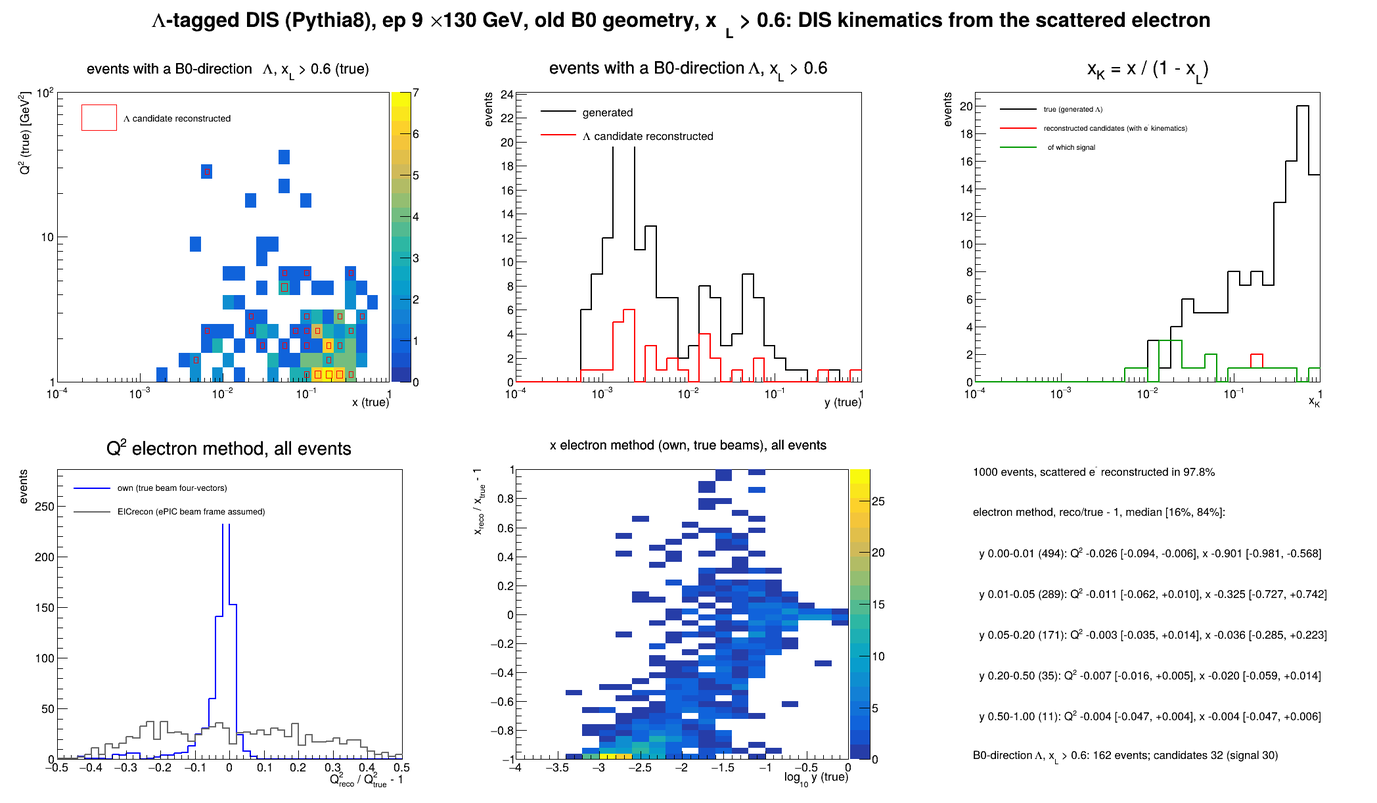
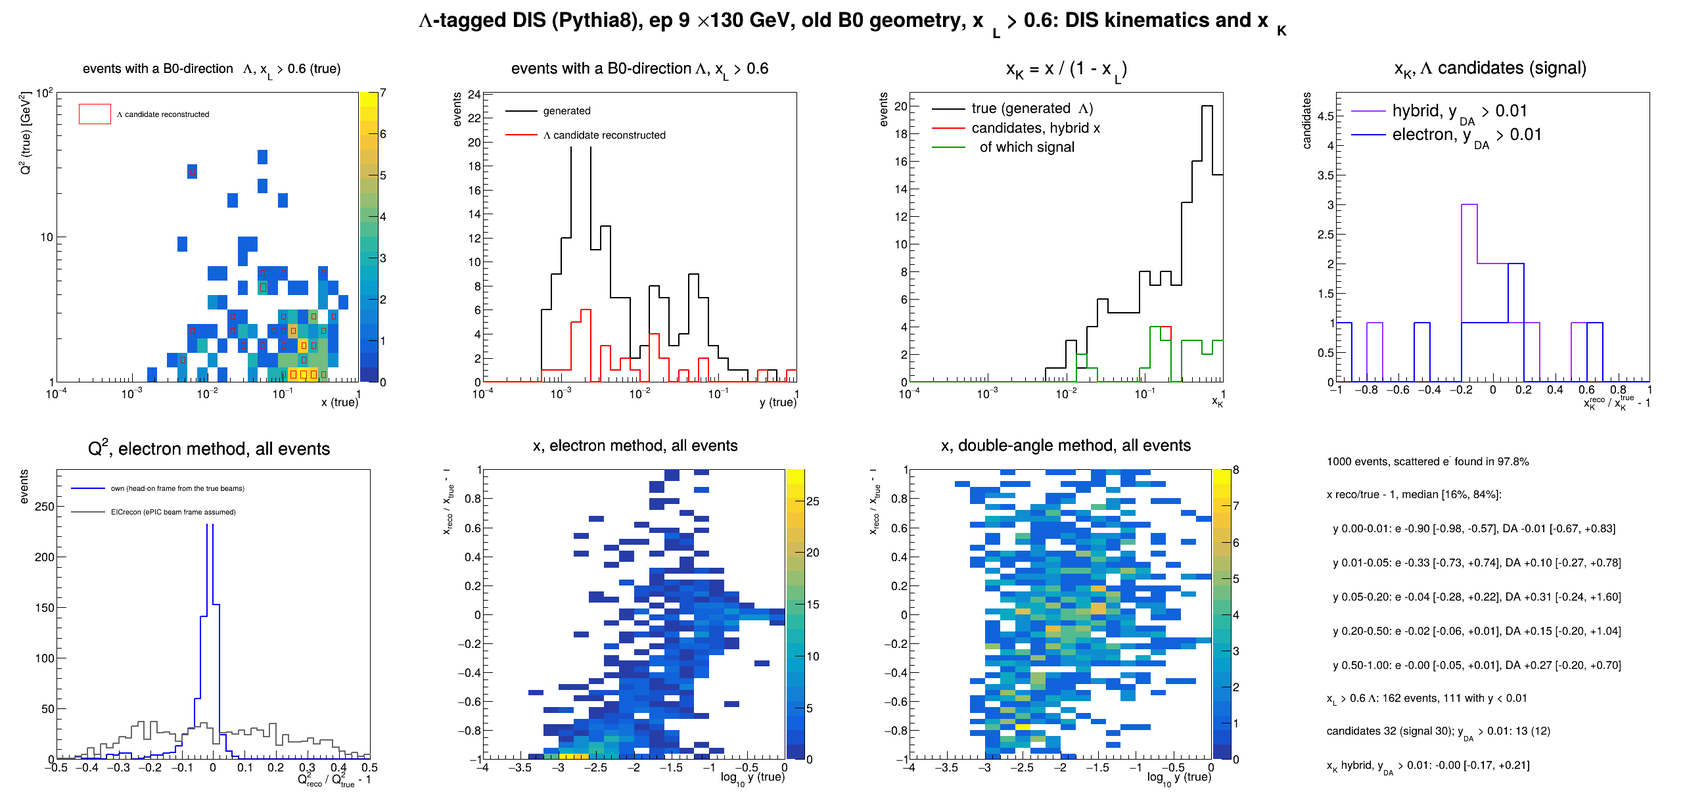
Kaon SF step 3: hadronic-final-state methods (JB, DA, Sigma, eSigma, hybrid) in the head-on frame; x_K with y_DA cut

diff --git a/macros/kaon/kaon_kinematics.C b/macros/kaon/kaon_kinematics.C
@@ -1,19 +1,29 @@
 // kaon_kinematics.C
 //
-// Kaon structure function, step 2: DIS kinematics from the scattered electron and x_K = x / (1 - x_L)
-// for Lambda-tagged DIS events (Pythia8, scripts/gen/), EICrecon#3116 output.
+// Kaon structure function: DIS kinematics (x, Q2, y) and x_K = x / (1 - x_L) for Lambda-tagged DIS
+// events (Pythia8, scripts/gen/), EICrecon#3116 output.
 //
-// DIS kinematics (electron method), Lorentz invariants from the beam four-vectors of the event
-// (MCParticles with generatorStatus 4) and the scattered electron:
-//   q = e_beam - e',  Q2 = -q^2,  y = P.q / P.e_beam,  x = Q2 / (2 P.q)
-// true:  e' = MCScatteredElectrons (same as InclusiveKinematicsTruth, checked)
-// reco:  e' = the reconstructed charged particle that EICrecon uses for InclusiveKinematicsElectron
-//        (ScatteredElectronsTruth: the track truth-matched to the scattered electron; electron mass).
-// Why not InclusiveKinematicsElectron itself: EICrecon rounds the beams to the ePIC frame (electron
-// beam along -z, proton at -25 mrad). Our samples are boosted by ddsim --crossingAngleBoost -0.025,
-// which also tilts the electron beam by 25 mrad (beam e- px/|pz| = -0.025; campaign afterburner
-// files: ~1e-4), so EICrecon's reconstructed kinematics are wrong for them. The invariants
-// computed here do not depend on the frame. EICrecon's numbers are printed for comparison.
+// Frame. Our samples are Pythia head-on events boosted by ddsim --crossingAngleBoost -0.025, a pure
+// Lorentz boost along x that tilts BOTH beams (beam e- px/|pz| = -0.025; in the ePIC campaign files,
+// made with the afterburner, the electron beam is along -z). EICrecon's InclusiveKinematics* and
+// HadronicFinalState put the beams into the ePIC frame and are therefore wrong for our samples.
+// Here every event is boosted back by beta_x = -(px / E) of the summed true beams (MCParticles,
+// generatorStatus 4), which restores the head-on frame exactly (beam |px| < 1e-10 GeV afterwards).
+//
+// Methods (head-on frame, proton along +z, electron along -z, theta = scattered-electron angle):
+//   electron  Q2 = 2 Ee E' (1 + cos theta), y = 1 - E' (1 - cos theta) / (2 Ee)
+//   JB        y = Sigma_h / (2 Ee), Q2 = pT_h^2 / (1 - y)
+//   DA        hadron angle gamma from (pT_h, Sigma_h); y, Q2 from gamma and theta only
+//   Sigma     y = Sigma_h / (Sigma_h + E' (1 - cos theta)), Q2 = E'^2 sin^2 theta / (1 - y)
+//   eSigma    Q2 from the electron, x from Sigma
+//   hybrid    DA if its y < yHybrid (default 0.05), else electron
+//   x = Q2 / (s y) in all cases. Sigma_h = sum (E - pz), pT_h = |sum pT| of the hadronic final state.
+// Inputs: scattered electron = the reconstructed charged particle EICrecon uses for
+// InclusiveKinematicsElectron (ScatteredElectronsTruth: truth-matched track; electron mass); hadronic
+// final state = all ReconstructedParticles (tracks + ECal clusters, no HCal) except that electron.
+// True kinematics: beams and MCScatteredElectrons (identical to InclusiveKinematicsTruth, checked).
+// Closure: the same formulas on the generated final state reproduce the true x (up to -6% at
+// y < 0.01: the proton-mass term in sum(E - pz) is neglected).
 //
 // Lambda: generated = B0-direction Lambda (5.5-20 mrad from the proton beam) with x_L > xLMin;
 // reconstructed (no truth) = forward (+,-) pair of hit-seeded tracks (beam-frame theta < 30 mrad),
@@ -21,11 +31,7 @@
 // pair closest to the Lambda mass. Signal = both tracks from the same Lambda -> p pi- (truth label).
 // x_L = p_z(beam frame) / E_p, E_p from the file name (9x130, 10x100, 5x41, else 275 GeV).
 //
-// Candidates are counted with or without electron kinematics; "no e- kinematics" = no reconstructed
-// scattered electron, or the electron method gives y <= 0 (frequent at y < 0.01: there y_reco =
-// 1 - E'(1 - cos theta)/(2 E_e) is a small difference of large numbers). x_K needs them.
-//
-// Output: printout and <outbase>.png (3 x 2).
+// Output: printout and <outbase>.png (4 x 2).
 // Usage (from the repository top):
 //   root -l -b -q 'macros/kaon/kaon_kinematics.C+("/eos/user/g/gninio/eic/lambda_dis_9x130/dis_lambda_9x130_old_s40?.eicreconpr3116.edm4eic.root","results/11_kaon_sf/kin_9x130_old")'
 #include "../common/LambdaB0.h"
@@ -42,23 +48,31 @@
 namespace {
 const double kMassElectron = 0.000511;   // GeV
 const unsigned int kColRecoCharged = 0x538857ff;   // podio collection ID of ReconstructedChargedParticles
+enum { kE, kJB, kDA, kSig, kESig, kHyb, kNM };
+const char* kMName[kNM] = {"electron", "JB", "DA", "Sigma", "eSigma", "hybrid"};
 
 struct Kin { double Q2 = -1, x = -1, y = -1; bool ok = false; };
-// Lorentz-invariant DIS kinematics from the beams and the scattered electron (any frame)
-Kin DisKin(const TLorentzVector& eb, const TLorentzVector& pb, const TLorentzVector& es) {
-  TLorentzVector q = eb - es;
-  Kin k; k.Q2 = -q.M2();
-  double pq = pb.Dot(q);
-  if (pq <= 0 || k.Q2 <= 0) return k;
-  k.x = k.Q2 / (2 * pq); k.y = pq / pb.Dot(eb); k.ok = true;
-  return k;
+// all methods; e = scattered electron, S = Sigma_h, pt = pT_h (head-on frame); Ee, s of the beams
+void Methods(const TLorentzVector& e, double S, double pt, double Ee, double s, double yHybrid, Kin k[kNM]) {
+  for (int m = 0; m < kNM; ++m) k[m] = Kin();
+  double Ep = e.E(), c = std::cos(e.Theta()), sn = std::sin(e.Theta());
+  auto fin = [&](Kin& q) { q.ok = q.ok && q.y > 0 && q.y < 1 && q.Q2 > 0; if (q.ok) q.x = q.Q2 / (s * q.y); };
+  k[kE].Q2 = 2 * Ee * Ep * (1 + c); k[kE].y = 1 - Ep * (1 - c) / (2 * Ee); k[kE].ok = true; fin(k[kE]);
+  if (S > 0 && pt > 0) {
+    k[kJB].y = S / (2 * Ee); k[kJB].Q2 = pt * pt / (1 - k[kJB].y); k[kJB].ok = k[kJB].y < 1; fin(k[kJB]);
+    double tg = std::tan(0.5 * std::acos((pt * pt - S * S) / (pt * pt + S * S))), te = std::tan(0.5 * e.Theta());
+    k[kDA].y = tg / (tg + te); k[kDA].Q2 = 4 * Ee * Ee / te / (tg + te); k[kDA].ok = true; fin(k[kDA]);
+    k[kSig].y = S / (S + Ep * (1 - c)); k[kSig].Q2 = Ep * Ep * sn * sn / (1 - k[kSig].y); k[kSig].ok = true; fin(k[kSig]);
+    if (k[kSig].ok && k[kE].Q2 > 0) { k[kESig].Q2 = k[kE].Q2; k[kESig].x = k[kSig].x; k[kESig].y = k[kE].Q2 / (s * k[kSig].x); k[kESig].ok = true; }
+  }
+  k[kHyb] = (k[kDA].ok && k[kDA].y < yHybrid) ? k[kDA] : k[kE];
 }
 // "median [16%, 84%]" of a sample
 TString Spread(std::vector<double> v) {
   if (v.size() < 3) return TString::Format("n=%zu", v.size());
   std::sort(v.begin(), v.end());
   auto q = [&](double f) { return v[(size_t)(f * (v.size() - 1))]; };
-  return TString::Format("%+.3f [%+.3f, %+.3f]", q(0.5), q(0.16), q(0.84));
+  return TString::Format("%+.2f [%+.2f, %+.2f]", q(0.5), q(0.16), q(0.84));
 }
 std::vector<double> LogBins(int n, double lo, double hi) {
   std::vector<double> b(n + 1);
@@ -68,7 +82,8 @@ std::vector<double> LogBins(int n, double lo, double hi) {
 }  // namespace
 
 void kaon_kinematics(const char* files = "/eos/user/g/gninio/eic/lambda_dis_9x130/dis_lambda_9x130_old_s40?.eicreconpr3116.edm4eic.root",
-                     const char* outbase = "kin_9x130_old", double xLMin = 0.6, double minRatio = 2.5, double mWin = 0.010)
+                     const char* outbase = "kin_9x130_old", double xLMin = 0.6, double minRatio = 2.5, double mWin = 0.010,
+                     double yHybrid = 0.05, double yMin = 0.01)
 {
   using namespace lb0;
   const double thLo = 5.5, thHi = 20, thFwd = 30;   // mrad
@@ -82,31 +97,34 @@ void kaon_kinematics(const char* files = "/eos/user/g/gninio/eic/lambda_dis_9x13
   TTreeReader r(ch);
   MCEvent ev(r);
   RecoEvent reco(r, Seeding("hit"));   // ReconstructedChargedParticles: also holds the scattered electron
+  TTreeReaderArray<double> mcMass(r, "MCParticles.mass");
   TTreeReaderArray<int> mcScat(r, "MCScatteredElectrons_objIdx.index");
   TTreeReaderArray<int> scatIdx(r, "_InclusiveKinematicsElectron_scat.index");
   TTreeReaderArray<unsigned int> scatCol(r, "_InclusiveKinematicsElectron_scat.collectionID");
-  TTreeReaderArray<float> tQ2(r, "InclusiveKinematicsTruth.Q2"), tx(r, "InclusiveKinematicsTruth.x"), ty(r, "InclusiveKinematicsTruth.y");
-  TTreeReaderArray<float> eQ2(r, "InclusiveKinematicsElectron.Q2"), ex(r, "InclusiveKinematicsElectron.x"), ey(r, "InclusiveKinematicsElectron.y");
+  TTreeReaderArray<float> rpx(r, "ReconstructedParticles.momentum.x"), rpy(r, "ReconstructedParticles.momentum.y"),
+                          rpz(r, "ReconstructedParticles.momentum.z"), rpE(r, "ReconstructedParticles.energy");
+  TTreeReaderArray<float> tQ2(r, "InclusiveKinematicsTruth.Q2"), eQ2(r, "InclusiveKinematicsElectron.Q2");
 
-  // y bins for the resolution table
   const int ny = 5; const double yb[ny + 1] = {0, 0.01, 0.05, 0.2, 0.5, 1};
-  std::vector<double> rQ[ny], rX[ny], rY[ny], eQ[ny], eX[ny];   // own electron method / EICrecon electron method
-  long nEv = 0, nScat = 0, nScatOther = 0, nTruthMismatch = 0, nEvY[ny] = {0}, nBadY[ny] = {0};   // nBad: reco y <= 0 (P.q <= 0) or Q2 <= 0
+  auto YBin = [&](double y) { for (int k = 0; k < ny; ++k) if (y >= yb[k] && y < yb[k + 1]) return k; return -1; };
+  std::vector<double> rX[kNM][ny], rQ[kNM][ny], rXL[kNM][ny], gX[kNM][ny], eicQ[ny];   // all events / high-x_L events / closure
+  long nEv = 0, nScat = 0, nScatOther = 0, nTruthMismatch = 0, nEvY[ny] = {0}, nFail[kNM][ny] = {{0}};
+  double maxBeamPx = 0;
   // Lambda side
-  long nSel = 0, nSelY[ny] = {0}, nCand = 0, nCandSig = 0, nCandY[ny] = {0}, nCandSigY[ny] = {0}, nCandNoKinY[ny] = {0};
-  std::vector<double> dXK[ny], dXL;
+  long nSel = 0, nSelY[ny] = {0}, nCand = 0, nCandSig = 0, nCandY[ny] = {0}, nCandSigY[ny] = {0}, nCandCut = 0, nCandCutSig = 0;
+  std::vector<double> dXK[kNM], dXKcut[kNM], dXL;
 
   auto bx = LogBins(30, 1e-4, 1), bq = LogBins(20, 1, 100), byy = LogBins(32, 1e-4, 1);
   TH2D hQx("hQx", "events with a B0-direction #Lambda, x_{L} > 0.6 (true);x (true);Q^{2} (true) [GeV^{2}]", 30, bx.data(), 20, bq.data());
   TH2D hQxR("hQxR", "", 30, bx.data(), 20, bq.data());
   TH1D hY("hY", "events with a B0-direction #Lambda, x_{L} > 0.6;y (true);events", 32, byy.data());
   TH1D hYR("hYR", "", 32, byy.data());
-  TH1D hdQ("hdQ", "Q^{2} electron method, all events;Q^{2}_{reco} / Q^{2}_{true} - 1;events", 50, -0.5, 0.5);
-  TH1D hdQe("hdQe", "", 50, -0.5, 0.5);
-  auto blogy = std::vector<double>(); for (int i = 0; i <= 20; ++i) blogy.push_back(-4 + 0.2 * i);
-  TH2D hdXy("hdXy", "x electron method (own, true beams), all events;log_{10} y (true);x_{reco} / x_{true} - 1", 20, -4, 0, 50, -1, 1);
+  TH1D hdQ("hdQ", "Q^{2}, electron method, all events;Q^{2}_{reco} / Q^{2}_{true} - 1;events", 50, -0.5, 0.5), hdQe("hdQe", "", 50, -0.5, 0.5);
+  TH2D hdXyE("hdXyE", "x, electron method, all events;log_{10} y (true);x_{reco} / x_{true} - 1", 20, -4, 0, 50, -1, 1);
+  TH2D hdXyD("hdXyD", "x, double-angle method, all events;log_{10} y (true);x_{reco} / x_{true} - 1", 20, -4, 0, 50, -1, 1);
   TH1D hXK("hXK", "x_{K} = x / (1 - x_{L});x_{K};events", 30, bx.data());
   TH1D hXKR("hXKR", "", 30, bx.data()), hXKRS("hXKRS", "", 30, bx.data());
+  TH1D hdXKh("hdXKh", TString::Format("x_{K}, #Lambda candidates (signal);x_{K}^{reco} / x_{K}^{true} - 1;candidates"), 20, -1, 1), hdXKe("hdXKe", "", 20, -1, 1);
 
   while (r.Next()) {
     ++nEv;
@@ -116,32 +134,33 @@ void kaon_kinematics(const char* files = "/eos/user/g/gninio/eic/lambda_dis_9x13
       if (ev.pdg[i] == 11) eb.SetXYZM(ev.px[i], ev.py[i], ev.pz[i], kMassElectron);
       if (ev.pdg[i] == 2212) pb.SetXYZM(ev.px[i], ev.py[i], ev.pz[i], kMassProton);
     }
+    TLorentzVector tot = eb + pb;
+    const TVector3 toHeadOn(-tot.Px() / tot.E(), 0, 0);
+    TLorentzVector ebh = eb, pbh = pb; ebh.Boost(toHeadOn); pbh.Boost(toHeadOn);
+    maxBeamPx = std::max({maxBeamPx, std::fabs(ebh.Px()), std::fabs(pbh.Px())});
+    const double Ee = ebh.E(), s = tot.M2();
     if (!mcScat.GetSize() || mcScat[0] < 0) continue;
     int im = mcScat[0];
     TLorentzVector et; et.SetXYZM(ev.px[im], ev.py[im], ev.pz[im], kMassElectron);
-    Kin kt = DisKin(eb, pb, et);
+    TLorentzVector q = eb - et;
+    Kin kt; kt.Q2 = -q.M2(); kt.y = pb.Dot(q) / pb.Dot(eb); kt.x = kt.Q2 / (2 * pb.Dot(q)); kt.ok = kt.Q2 > 0 && kt.y > 0;
     if (!kt.ok) continue;
     if (tQ2.GetSize() && std::fabs(tQ2[0] / kt.Q2 - 1) > 1e-3) ++nTruthMismatch;
-    int iy = -1; for (int k = 0; k < ny; ++k) if (kt.y >= yb[k] && kt.y < yb[k + 1]) iy = k;
+    int iy = YBin(kt.y);
     if (iy < 0) continue;
     ++nEvY[iy];
+    TLorentzVector eth = et; eth.Boost(toHeadOn);
 
-    // reconstructed scattered electron
-    Kin kr;
-    bool haveE = scatIdx.GetSize() && scatIdx[0] >= 0 && scatIdx[0] < reco.N();
-    if (haveE && scatCol[0] != kColRecoCharged) { ++nScatOther; haveE = false; }
-    if (haveE) {
-      ++nScat;
-      TLorentzVector er; er.SetVectM(reco.P(scatIdx[0]), kMassElectron);
-      kr = DisKin(eb, pb, er);
-      if (!kr.ok) ++nBadY[iy];
-      if (kr.ok) {
-        rQ[iy].push_back(kr.Q2 / kt.Q2 - 1); rX[iy].push_back(kr.x / kt.x - 1); rY[iy].push_back(kr.y / kt.y - 1);
-        hdQ.Fill(kr.Q2 / kt.Q2 - 1); hdXy.Fill(std::log10(kt.y), kr.x / kt.x - 1);
+    // closure: the methods on the generated final state
+    {
+      double S = 0, sx = 0, sy = 0;
+      for (size_t i = 0; i < ev.pdg.GetSize(); ++i) {
+        if (ev.status[i] != 1 || (int)i == im) continue;
+        TLorentzVector v; v.SetXYZM(ev.px[i], ev.py[i], ev.pz[i], mcMass[i]); v.Boost(toHeadOn);
+        S += v.E() - v.Pz(); sx += v.Px(); sy += v.Py();
       }
-      if (eQ2.GetSize()) {
-        eQ[iy].push_back(eQ2[0] / kt.Q2 - 1); eX[iy].push_back(ex[0] / kt.x - 1); hdQe.Fill(eQ2[0] / kt.Q2 - 1);
-      }
+      Kin kg[kNM]; Methods(eth, S, std::hypot(sx, sy), Ee, s, yHybrid, kg);
+      for (int m = 0; m < kNM; ++m) if (kg[m].ok) gX[m][iy].push_back(kg[m].x / kt.x - 1);
     }
 
     // generated B0-direction Lambda with x_L > xLMin
@@ -152,9 +171,32 @@ void kaon_kinematics(const char* files = "/eos/user/g/gninio/eic/lambda_dis_9x13
       if (th < thLo || th > thHi || XL(pl) < xLMin) continue;
       xLt = std::max(xLt, XL(pl));
     }
-    if (xLt > 0) {
-      ++nSel; ++nSelY[iy];
-      hQx.Fill(kt.x, kt.Q2); hY.Fill(kt.y); hXK.Fill(kt.x / (1 - xLt));
+    if (xLt > 0) { ++nSel; ++nSelY[iy]; hQx.Fill(kt.x, kt.Q2); hY.Fill(kt.y); hXK.Fill(kt.x / (1 - xLt)); }
+
+    // reconstructed kinematics
+    Kin kr[kNM];
+    bool haveE = scatIdx.GetSize() && scatIdx[0] >= 0 && scatIdx[0] < reco.N();
+    if (haveE && scatCol[0] != kColRecoCharged) { ++nScatOther; haveE = false; }
+    if (haveE) {
+      ++nScat;
+      TVector3 e3 = reco.P(scatIdx[0]);
+      double S = 0, sx = 0, sy = 0;
+      for (size_t k = 0; k < rpx.GetSize(); ++k) {
+        TVector3 p3(rpx[k], rpy[k], rpz[k]);
+        if ((p3 - e3).Mag() < 1e-4 * e3.Mag()) continue;   // the scattered electron (same track)
+        TLorentzVector v(p3, rpE[k]); v.Boost(toHeadOn);
+        S += v.E() - v.Pz(); sx += v.Px(); sy += v.Py();
+      }
+      TLorentzVector er; er.SetVectM(e3, kMassElectron); er.Boost(toHeadOn);
+      Methods(er, S, std::hypot(sx, sy), Ee, s, yHybrid, kr);
+      for (int m = 0; m < kNM; ++m) {
+        if (!kr[m].ok) { ++nFail[m][iy]; continue; }
+        rX[m][iy].push_back(kr[m].x / kt.x - 1); rQ[m][iy].push_back(kr[m].Q2 / kt.Q2 - 1);
+        if (xLt > 0) rXL[m][iy].push_back(kr[m].x / kt.x - 1);
+      }
+      if (kr[kE].ok) { hdQ.Fill(kr[kE].Q2 / kt.Q2 - 1); hdXyE.Fill(std::log10(kt.y), kr[kE].x / kt.x - 1); }
+      if (kr[kDA].ok) hdXyD.Fill(std::log10(kt.y), kr[kDA].x / kt.x - 1);
+      if (eQ2.GetSize()) { eicQ[iy].push_back(eQ2[0] / kt.Q2 - 1); hdQe.Fill(eQ2[0] / kt.Q2 - 1); }
     }
 
     // reconstructed Lambda candidate (no truth): best forward (+,-) pair in the mass window
@@ -174,48 +216,75 @@ void kaon_kinematics(const char* files = "/eos/user/g/gninio/eic/lambda_dis_9x13
       bool sig = lp >= 0 && lp == lpi;
       ++nCand; nCandSig += sig; ++nCandY[iy]; nCandSigY[iy] += sig;
       hQxR.Fill(kt.x, kt.Q2); hYR.Fill(kt.y);
-      if (!kr.ok) ++nCandNoKinY[iy];   // no reconstructed electron, or electron method gives y <= 0
-    }
-    if (ba >= 0 && kr.ok) {
-      int lp = ev.LambdaOf(mc[ba], 2212), lpi = ev.LambdaOf(mc[bb], -211);
-      bool sig = lp >= 0 && lp == lpi;
-      double xLr = XL(reco.P(ba) + reco.P(bb)), xKr = kr.x / (1 - xLr);
-      hXKR.Fill(xKr);
+      double xLr = XL(reco.P(ba) + reco.P(bb));
+      bool pass = kr[kDA].ok && kr[kDA].y > yMin;   // y cut on the reconstructed (DA) y
+      if (pass) { ++nCandCut; nCandCutSig += sig; }
+      if (kr[kHyb].ok) { hXKR.Fill(kr[kHyb].x / (1 - xLr)); if (sig) hXKRS.Fill(kr[kHyb].x / (1 - xLr)); }
       if (sig) {
-        hXKRS.Fill(xKr);
         double xKt = kt.x / (1 - XL(ev.P(lp)));
-        dXK[iy].push_back(xKr / xKt - 1); dXL.push_back(xLr - XL(ev.P(lp)));
+        dXL.push_back(xLr - XL(ev.P(lp)));
+        for (int m = 0; m < kNM; ++m) if (kr[m].ok) {
+          double d = kr[m].x / (1 - xLr) / xKt - 1;
+          dXK[m].push_back(d); if (pass) dXKcut[m].push_back(d);
+        }
+        if (pass && kr[kHyb].ok) hdXKh.Fill(kr[kHyb].x / (1 - xLr) / xKt - 1);
+        if (pass && kr[kE].ok) hdXKe.Fill(kr[kE].x / (1 - xLr) / xKt - 1);
       }
     }
   }
 
   printf("%s\n", files);
-  printf("events %ld (E_p = %.0f GeV); reconstructed scattered electron (ScatteredElectronsTruth track) in %ld (%.1f%%)%s\n",
-         nEv, Ep, nScat, Pct(nScat, nEv), nScatOther ? TString::Format(", %ld linked to another collection (skipped)", nScatOther).Data() : "");
-  printf("own true kinematics vs InclusiveKinematicsTruth: %ld events differ by > 0.1%% in Q2\n", nTruthMismatch);
-  printf("electron method, reco/true - 1: median [16%%, 84%%]; own = true beams, EICrecon = InclusiveKinematicsElectron\n");
-  printf("  y (true)     events  y_reco<=0 | own Q2                     own x                      own y                     | EICrecon Q2                EICrecon x\n");
-  for (int k = 0; k < ny; ++k)
-    printf("  %.2f-%.2f   %6ld  %9ld | %-26s %-26s %-26s| %-26s %-26s\n", yb[k], yb[k + 1], nEvY[k], nBadY[k],
-           Spread(rQ[k]).Data(), Spread(rX[k]).Data(), Spread(rY[k]).Data(), Spread(eQ[k]).Data(), Spread(eX[k]).Data());
-  printf("Lambda side (x_L > %.2f): events with a generated B0-direction Lambda %ld; with a reconstructed candidate (hit seeding, +-%.0f MeV) %ld, signal %ld (%.0f%%)\n",
-         xLMin, nSel, mWin * 1000, nCand, nCandSig, Pct(nCandSig, nCand));
-  printf("  y (true)     generated  candidates (signal)  no e- kinematics | x_K reco/true - 1 (signal)\n");
-  for (int k = 0; k < ny; ++k)
-    printf("  %.2f-%.2f   %9ld  %10ld (%3ld)    %10ld       | %s\n", yb[k], yb[k + 1], nSelY[k], nCandY[k], nCandSigY[k], nCandNoKinY[k], Spread(dXK[k]).Data());
+  printf("events %ld (E_p = %.0f GeV); head-on frame: beam |px| after the inverse boost < %.1e GeV\n", nEv, Ep, maxBeamPx);
+  printf("reconstructed scattered electron (ScatteredElectronsTruth track) in %ld (%.1f%%)%s; own truth vs InclusiveKinematicsTruth: %ld events differ\n",
+         nScat, Pct(nScat, nEv), nScatOther ? TString::Format(", %ld linked elsewhere (skipped)", nScatOther).Data() : "", nTruthMismatch);
+  printf("closure (methods on the generated final state), x/x_true - 1, median:\n");
+  for (int k = 0; k < ny; ++k) {
+    printf("  y %.2f-%.2f:", yb[k], yb[k + 1]);
+    for (int m = 0; m < kNM; ++m) { auto v = gX[m][k]; std::sort(v.begin(), v.end()); printf("  %s %+.3f", kMName[m], v.empty() ? 0. : v[v.size() / 2]); }
+    printf("\n");
+  }
+  printf("x reco/true - 1, median [16%%, 84%%], all events (failed = no valid result):\n");
+  printf("  %-10s %6s", "y (true)", "events");
+  for (int m = 0; m < kNM; ++m) printf(" | %-23s", kMName[m]);
+  printf("\n");
+  for (int k = 0; k < ny; ++k) {
+    printf("  %.2f-%.2f  %6ld", yb[k], yb[k + 1], nEvY[k]);
+    for (int m = 0; m < kNM; ++m) printf(" | %-23s", Spread(rX[m][k]).Data());
+    printf("\n");
+  }
+  printf("  failed:          ");
+  for (int m = 0; m < kNM; ++m) { long f = 0; for (int k = 0; k < ny; ++k) f += nFail[m][k]; printf(" | %-23ld", f); }
+  printf("\nQ2 reco/true - 1, median [16%%, 84%%], all events (EICrecon = its electron method, ePIC frame assumed):\n");
+  printf("  %-10s", "y (true)"); for (int m : {kE, kDA, kSig, kESig}) printf(" | %-23s", kMName[m]); printf(" | %-23s\n", "EICrecon");
+  for (int k = 0; k < ny; ++k) {
+    printf("  %.2f-%.2f", yb[k], yb[k + 1]);
+    for (int m : {kE, kDA, kSig, kESig}) printf(" | %-23s", Spread(rQ[m][k]).Data());
+    printf(" | %-23s\n", Spread(eicQ[k]).Data());
+  }
+  printf("x reco/true - 1 for the events with a B0-direction Lambda at x_L > %.2f:\n", xLMin);
+  for (int k = 0; k < ny; ++k) {
+    printf("  %.2f-%.2f  %6ld", yb[k], yb[k + 1], nSelY[k]);
+    for (int m = 0; m < kNM; ++m) printf(" | %-23s", Spread(rXL[m][k]).Data());
+    printf("\n");
+  }
+  printf("Lambda candidates (hit seeding, +-%.0f MeV, x_L > %.2f): %ld, signal %ld; with y_DA > %.2f: %ld, signal %ld\n",
+         mWin * 1000, xLMin, nCand, nCandSig, yMin, nCandCut, nCandCutSig);
+  printf("  per true y bin:"); for (int k = 0; k < ny; ++k) printf("  %.2f-%.2f %ld (%ld)", yb[k], yb[k + 1], nCandY[k], nCandSigY[k]); printf("\n");
+  printf("  x_K reco/true - 1 (signal), all / with y_DA > %.2f:\n", yMin);
+  for (int m = 0; m < kNM; ++m) printf("    %-8s %-23s / %s\n", kMName[m], Spread(dXK[m]).Data(), Spread(dXKcut[m]).Data());
   printf("  x_L reco - true (signal): %s\n", Spread(dXL).Data());
 
   // ---- plots ----
   gStyle->SetOptStat(0);
   TString beam = Ep == 130 ? "ep 9#times130 GeV" : Ep == 275 ? "ep 18#times275 GeV" : TString::Format("E_{p} = %.0f GeV", Ep);
   TString title = "#Lambda-tagged DIS (Pythia8), " + beam + (fsn.Contains("_old_") ? ", old B0 geometry" : fsn.Contains("_new_") ? ", new B0 geometry" : "")
-                + TString::Format(", x_{L} > %.2g: DIS kinematics from the scattered electron", xLMin);
-  TCanvas c("c", "", 2100, 1250);
+                + TString::Format(", x_{L} > %.2g: DIS kinematics and x_{K}", xLMin);
+  TCanvas c("c", "", 2600, 1250);
   TLatex tl; tl.SetNDC(); tl.SetTextAlign(22); tl.SetTextSize(0.028); tl.SetTextFont(62); tl.DrawLatex(0.5, 0.97, title);
-  TPad pm("pm", "", 0, 0, 1, 0.94); pm.Draw(); pm.Divide(3, 2);
+  TPad pm("pm", "", 0, 0, 1, 0.94); pm.Draw(); pm.Divide(4, 2);
   pm.cd(1); gPad->SetLogx(); gPad->SetLogy(); gPad->SetRightMargin(0.13);
-  hQx.Draw("colz"); hQxR.SetMarkerStyle(24); hQxR.SetMarkerColor(kRed); hQxR.Draw("box same");
-  TLegend l1(0.14, 0.78, 0.6, 0.88); l1.SetBorderSize(0); l1.AddEntry(&hQxR, "#Lambda candidate reconstructed", "f"); hQxR.SetLineColor(kRed); l1.Draw();
+  hQx.Draw("colz"); hQxR.SetLineColor(kRed); hQxR.Draw("box same");
+  TLegend l1(0.14, 0.8, 0.6, 0.88); l1.SetBorderSize(0); l1.AddEntry(&hQxR, "#Lambda candidate reconstructed", "f"); l1.Draw();
   pm.cd(2); gPad->SetLogx();
   hY.SetLineColor(kBlack); hY.SetLineWidth(2); hYR.SetLineColor(kRed); hYR.SetLineWidth(2);
   hY.SetMinimum(0); hY.Draw("hist"); hYR.Draw("hist same");
@@ -225,20 +294,28 @@ void kaon_kinematics(const char* files = "/eos/user/g/gninio/eic/lambda_dis_9x13
   hXK.SetLineColor(kBlack); hXK.SetLineWidth(2); hXKR.SetLineColor(kRed); hXKR.SetLineWidth(2); hXKRS.SetLineColor(kGreen + 2); hXKRS.SetLineWidth(2);
   hXK.SetMinimum(0); hXK.Draw("hist"); hXKR.Draw("hist same"); hXKRS.Draw("hist same");
   TLegend l3(0.14, 0.72, 0.62, 0.88); l3.SetBorderSize(0);
-  l3.AddEntry(&hXK, "true (generated #Lambda)", "l"); l3.AddEntry(&hXKR, "reconstructed candidates (with e^{-} kinematics)", "l"); l3.AddEntry(&hXKRS, "  of which signal", "l"); l3.Draw();
+  l3.AddEntry(&hXK, "true (generated #Lambda)", "l"); l3.AddEntry(&hXKR, "candidates, hybrid x", "l"); l3.AddEntry(&hXKRS, "  of which signal", "l"); l3.Draw();
   pm.cd(4);
+  hdXKh.SetLineColor(kViolet + 1); hdXKh.SetLineWidth(2); hdXKe.SetLineColor(kBlue); hdXKe.SetLineWidth(2);
+  hdXKh.SetMaximum(1.3 * std::max(hdXKh.GetMaximum(), hdXKe.GetMaximum()) + 1); hdXKh.Draw("hist"); hdXKe.Draw("hist same");
+  TLegend l4(0.12, 0.75, 0.62, 0.88); l4.SetBorderSize(0);
+  l4.AddEntry(&hdXKh, TString::Format("hybrid, y_{DA} > %.2g", yMin), "l"); l4.AddEntry(&hdXKe, TString::Format("electron, y_{DA} > %.2g", yMin), "l"); l4.Draw();
+  pm.cd(5);
   hdQ.SetLineColor(kBlue); hdQ.SetLineWidth(2); hdQe.SetLineColor(kGray + 2); hdQe.SetLineWidth(2);
   hdQ.SetMaximum(1.15 * std::max(hdQ.GetMaximum(), hdQe.GetMaximum())); hdQ.Draw("hist"); hdQe.Draw("hist same");
-  TLegend l4(0.12, 0.75, 0.6, 0.88); l4.SetBorderSize(0);
-  l4.AddEntry(&hdQ, "own (true beam four-vectors)", "l"); l4.AddEntry(&hdQe, "EICrecon (ePIC beam frame assumed)", "l"); l4.Draw();
-  pm.cd(5); gPad->SetRightMargin(0.13); hdXy.Draw("colz");
-  pm.cd(6);
-  TPaveText t(0.05, 0.05, 0.95, 0.95, "NDC"); t.SetFillColor(0); t.SetBorderSize(0); t.SetTextAlign(12); t.SetTextFont(42);
-  t.AddText(TString::Format("%ld events, scattered e^{-} reconstructed in %.1f%%", nEv, Pct(nScat, nEv)));
-  t.AddText("electron method, reco/true - 1, median [16%, 84%]:");
+  TLegend l5(0.12, 0.75, 0.6, 0.88); l5.SetBorderSize(0);
+  l5.AddEntry(&hdQ, "own (head-on frame from the true beams)", "l"); l5.AddEntry(&hdQe, "EICrecon (ePIC beam frame assumed)", "l"); l5.Draw();
+  pm.cd(6); gPad->SetRightMargin(0.13); hdXyE.Draw("colz");
+  pm.cd(7); gPad->SetRightMargin(0.13); hdXyD.Draw("colz");
+  pm.cd(8);
+  TPaveText t(0.03, 0.03, 0.97, 0.97, "NDC"); t.SetFillColor(0); t.SetBorderSize(0); t.SetTextAlign(12); t.SetTextFont(42); t.SetTextSize(0.034);
+  t.AddText(TString::Format("%ld events, scattered e^{-} found in %.1f%%", nEv, Pct(nScat, nEv)));
+  t.AddText("x reco/true - 1, median [16%, 84%]:");
   for (int k = 0; k < ny; ++k)
-    t.AddText(TString::Format("  y %.2f-%.2f (%ld): Q^{2} %s, x %s", yb[k], yb[k + 1], nEvY[k], Spread(rQ[k]).Data(), Spread(rX[k]).Data()));
-  t.AddText(TString::Format("B0-direction #Lambda, x_{L} > %.2g: %ld events; candidates %ld (signal %ld)", xLMin, nSel, nCand, nCandSig));
+    t.AddText(TString::Format("  y %.2f-%.2f: e %s, DA %s", yb[k], yb[k + 1], Spread(rX[kE][k]).Data(), Spread(rX[kDA][k]).Data()));
+  t.AddText(TString::Format("x_{L} > %.2g #Lambda: %ld events, %ld with y < 0.01", xLMin, nSel, nSelY[0]));
+  t.AddText(TString::Format("candidates %ld (signal %ld); y_{DA} > %.2g: %ld (%ld)", nCand, nCandSig, yMin, nCandCut, nCandCutSig));
+  t.AddText(TString::Format("x_{K} hybrid, y_{DA} > %.2g: %s", yMin, Spread(dXKcut[kHyb]).Data()));
   t.Draw();
   c.SaveAs(TString(outbase) + ".png");
 }
